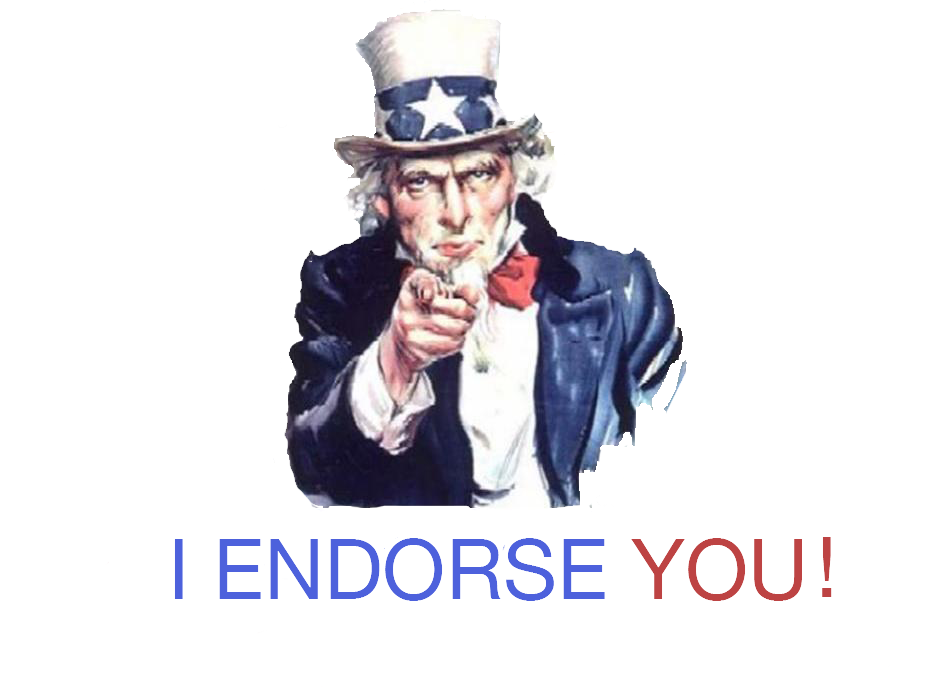
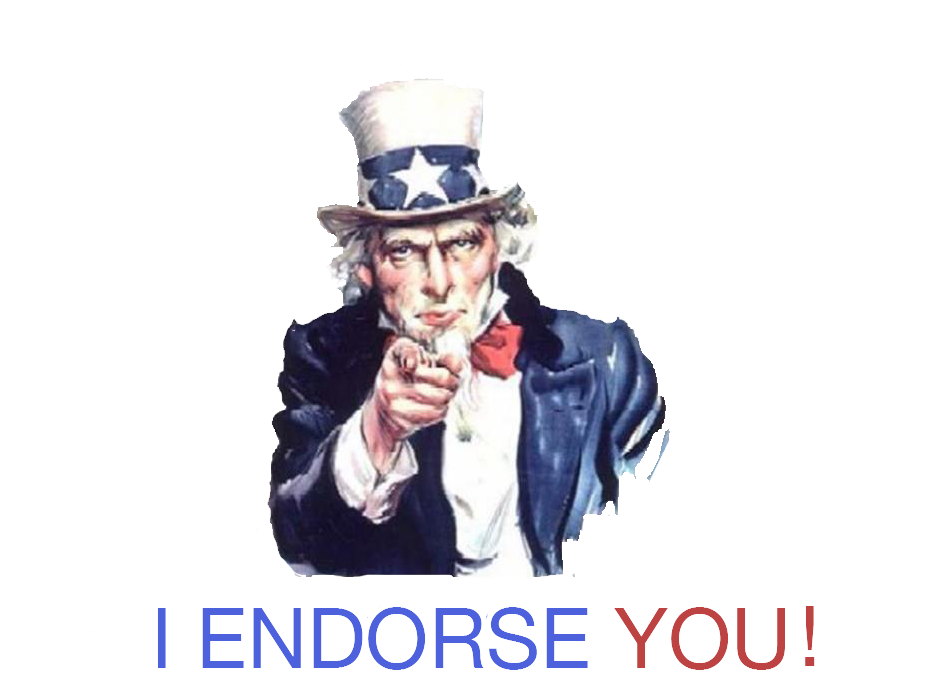
reordered rating spectrum slides, did some additions

Changed region(s): [[0.1859, 0.0, 0.7436, 0.9739], [0.6506, 0.7609, 0.8985, 0.9739], [0.1549, 0.8826, 0.1859, 0.9739]]

diff --git a/final/presentation/index.html b/final/presentation/index.html
@@ -246,8 +246,8 @@
           </section>
           <section>
             <h2>Web Interface</h2>
-              <h4>Ruby on Rails</h4>
-      <img src="img/ruby_on_rails.png" width="300" class="nostyle" />
+			<h4>Ruby on Rails</h4>
+			<img src="img/ruby_on_rails.png" width="300" class="nostyle" />
           </section>
           <section>
             <h2>Developer Verification</h2>
@@ -256,16 +256,23 @@
               <li>PGP</li>
               <li>Developer Key</li>
             </ul>
-      <img src="img/key.png" class="nostyle" />
+			<img src="img/key.png" class="nostyle" />
           </section>
-      <section>
+		  <section>
+            <h2>Rating Formula</h2>
+            <h4>Generating an absolute trust value</h4>
+            <img src="img/spectrum.png"/>
+          </section>
+		  <section>
             <h2>Virus Total</h2>
             <h4>Focused on Binary scanning so we don't have to</h4>
-            <img src="img/virustotal.png" />
+            <img src="img/virustotal.png" width="383" class="nostyle" />
+			<img src="img/spectrum_scanner.png" width="500" class="nostyle" />
           </section>
           <section>
             <h2>Endorsements</h2>
-            <img src="img/uncle_sam_endorse.png" width="600" class="fragment nostyle" />
+            <img src="img/uncle_sam_endorse.png" width="320" class="nostyle" />
+			<img src="img/spectrum_endorse.png" width="500" class="nostyle" />
           </section>
           <section>
             <h2>Endorsements</h2>
@@ -273,10 +280,11 @@
           </section>
           <section>
             <h2>Third Party Data</h2>
-            <img src="img/github.png" class="nostyle" />
+            <img src="img/github.png" width="140" class="nostyle" />
+			<img src="img/spectrum_third_party.png" width="500" class="nostyle" />
           </section>
           <section>
-            <h2>Rating Formula</h2>
+            <h2>Bringing It All Together</h2>
             <h4>Generating an absolute trust value</h4>
             <img src="img/spectrum.png"/>
           </section>
